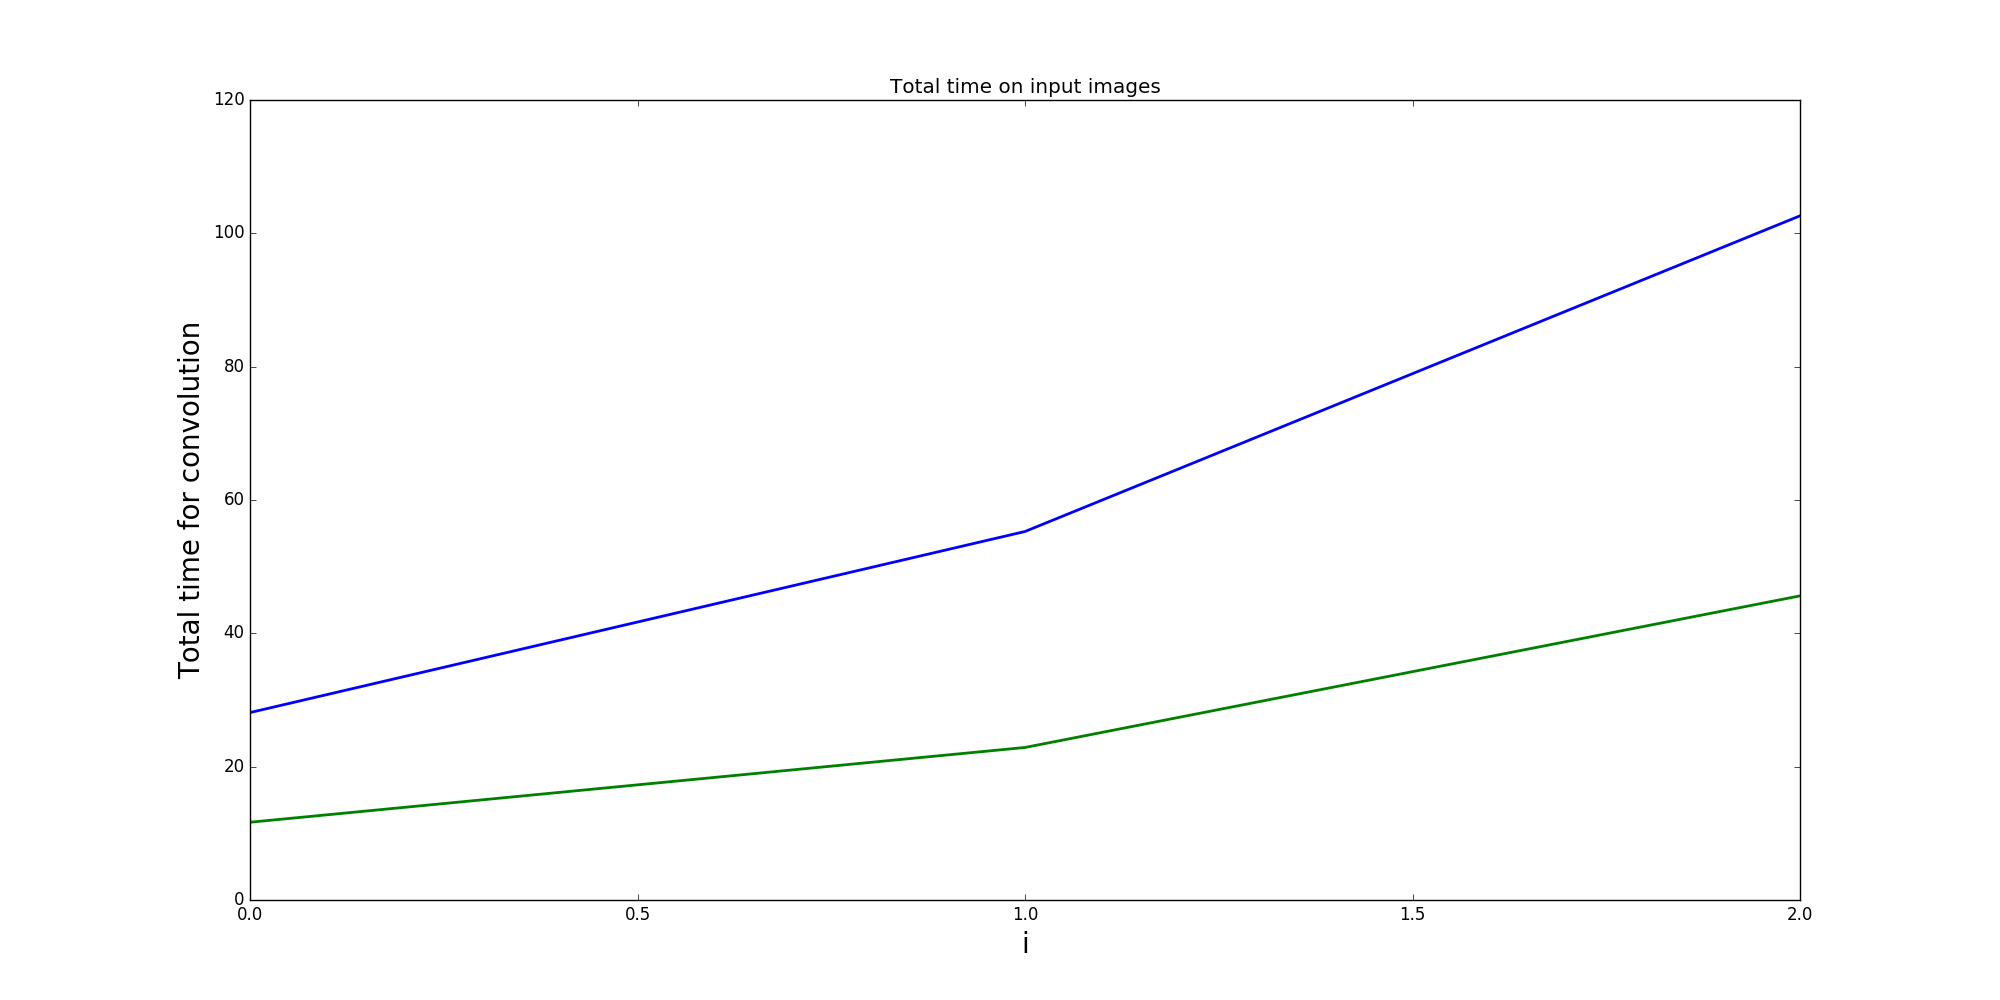
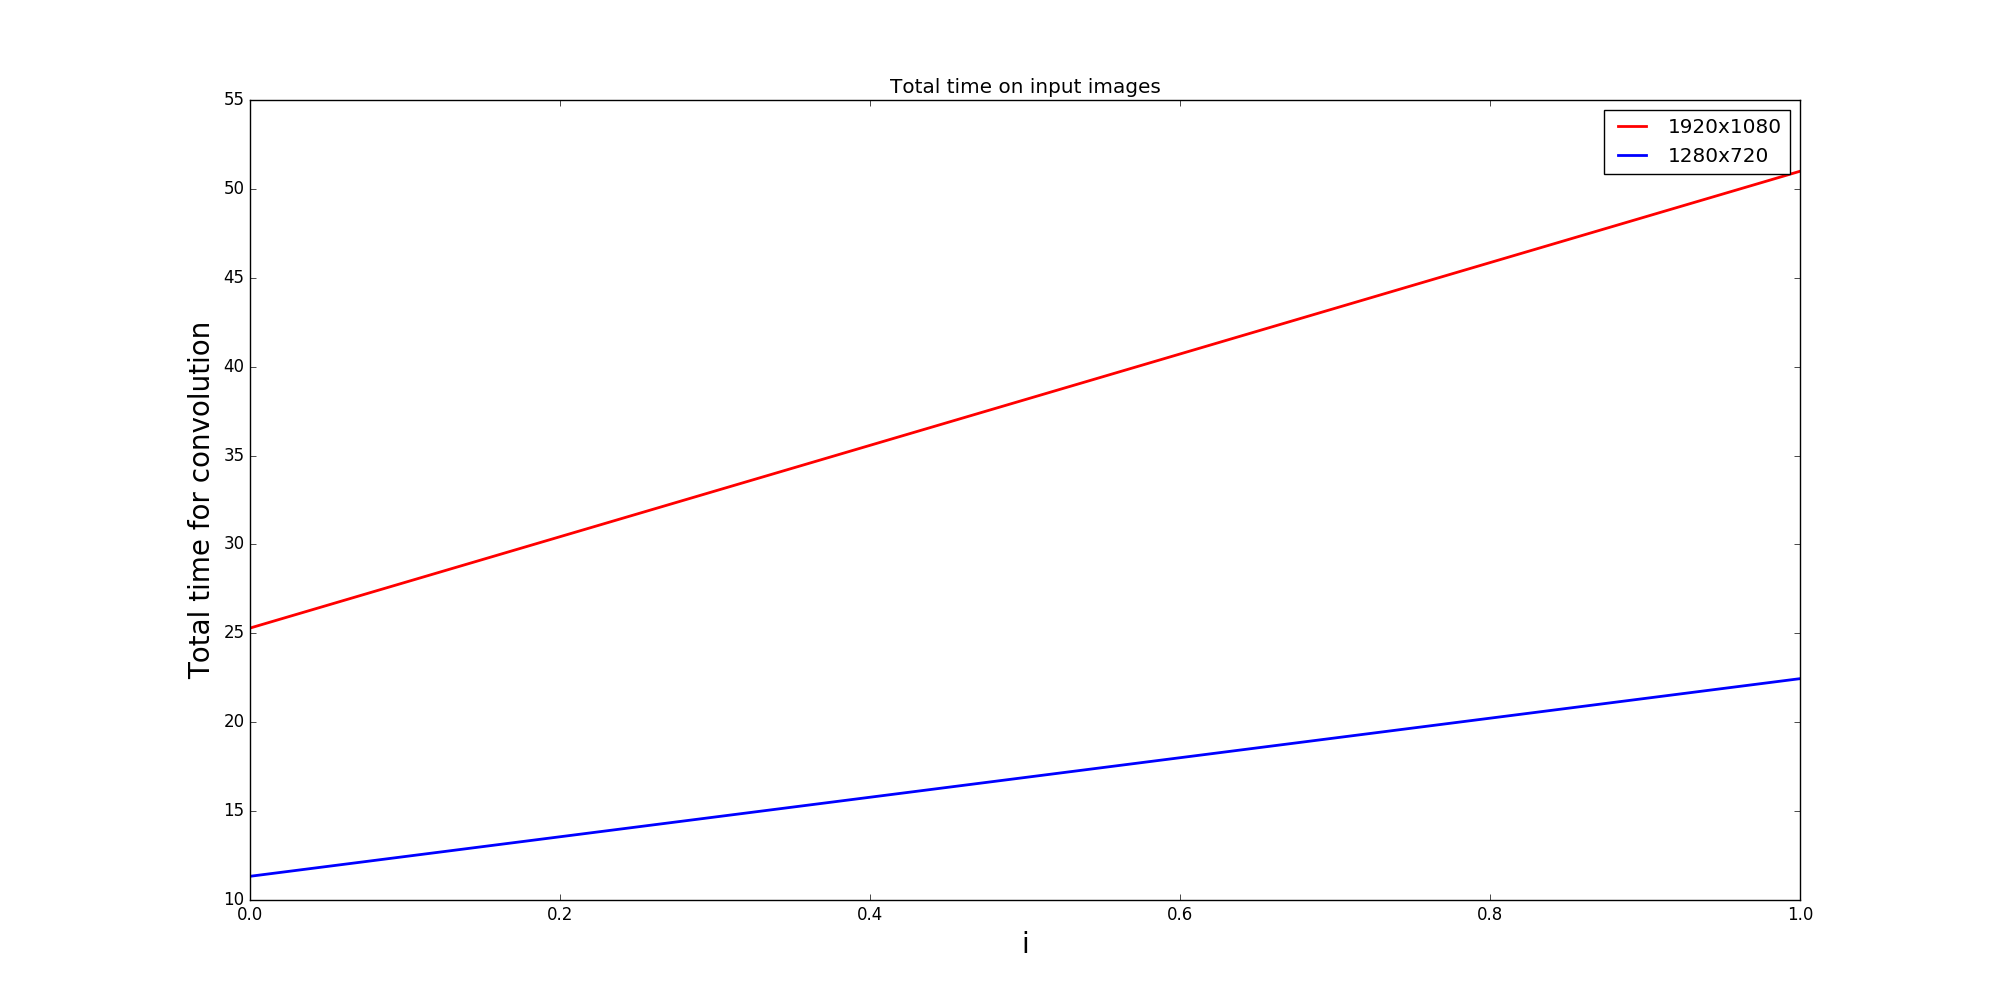
part d

diff --git a/Homework1/main.c b/Homework1/main.c
@@ -3,13 +3,14 @@
 #include <stdlib.h>
 #include <time.h>
 
-int rows[2] = {1080, 720};
-int columns[2] = {1920, 1280};
-int image = 0;
+static int rows[2] = {720, 1080};
+static int columns[2] = {1280, 1920};
+static int image;
 
-int c_conv(in_channel, o_channel, kernel_size, stride, float ***input_image) {
+int c_conv(int in_channel, int o_channel, int kernel_size, int stride, float ***input_image) {
     float ***kernel = (float***)malloc(in_channel*sizeof(float**));
     float ***out_array = (float***)malloc(o_channel*sizeof(float***));
+    
     int Num_of_ops = 0;
 
     int i, j, k;
@@ -18,12 +19,16 @@ int c_conv(in_channel, o_channel, kernel_size, stride, float ***input_image) {
     // Initialize a 3D kernel
     for (i = 0; i < in_channel; i++){
         kernel[i] = (float**)malloc(kernel_size*sizeof(float*));
+    }
+
+
+    for (i = 0; i < in_channel; i++){
         for (j = 0; j < kernel_size; j++){
             kernel[i][j] = (float*)malloc(kernel_size*sizeof(float));
         }
     }
 
-    for(i = 0; i < kernel_size; i++){
+    for(i = 0; i < in_channel; i++){
         for(j = 0; j < kernel_size; j++){
             for(k = 0; k < kernel_size; k++){
                 kernel[i][j][k] = (float)(rand()%100-50.0)/50.0;
@@ -31,44 +36,48 @@ int c_conv(in_channel, o_channel, kernel_size, stride, float ***input_image) {
         }
     }
 
-    int rows = (rows[image] - kernel_size)/stride + 1;
-    int columns = (columns[image] - kernel_size)/stride + 1;
+    int out_rows = (int)((rows[image] - kernel_size)/stride + 1);
+    int out_columns = (int)((columns[image] - kernel_size)/stride + 1);
 
-    // Initialize a 3D image tensor
+    // Initialize a output tenor
     for (i = 0; i < o_channel; i++){
-        out_array[i] = (float**)malloc(rows*sizeof(float*));
-        for (j = 0; j < rows; j++){
-            out_array[i][j] = (float*)malloc(columns*sizeof(float));
+        out_array[i] = (float**)malloc(out_rows*sizeof(float*));
+    }
+
+    
+    for (i = 0; i < o_channel; i++){
+        for (j = 0; j < out_rows; j++){
+            out_array[i][j] = (float*)malloc(out_columns*sizeof(float));
         }
     }
 
     for(i = 0; i < o_channel; i++)
-        for(j = 0; j < rows; j++)
-            for(k = 0; k < columns; k++)
-                out_img_array[i][j][k] = 0;
+        for(j = 0; j < out_rows; j++)
+            for(k = 0; k < out_columns; k++)
+                out_array[i][j][k] = 0;
 
     // Convolutions
-    for(i = 0; i < o_channel; i++)
-        for(j = 0; j < rows; j++)
-            for(k = 0; k < columns; k++){
-                sum = 0;
-                for(c1 = 0; c1 < kernel_size; c1++){
+    for(i = 0; i < o_channel; i++){
+        for(j = 0; j < out_rows; j++){
+            for(k = 0; k < out_columns; k++){
+                int sum = 0;
+                for(c1 = 0; c1 < in_channel; c1++){
                     for(c2 = 0; c2 < kernel_size; c2++){
                         for(c3 = 0; c3 < kernel_size; c3++){
-                            sum += kernel[c1][c2][c3] * input_image[i+c1][j+c2][k+c3];
+                            sum += kernel[c1][c2][c3] * input_image[c1][j+c2][k+c3];
                             Num_of_ops += 2;
                         }
                     }
                 }
-                out_img_array[i][j][k] = sum;
-             }
-
+                out_array[i][j][k] = sum;
+            }
+        }
+    }
 
     return Num_of_ops;
 }
 
 int main(){
-
     int in_channel = 3;
     float total_time[11];
     int stride = 1;
@@ -77,12 +86,15 @@ int main(){
     int Num_of_ops;
 
     clock_t start, end;
-    float ***input_image[2];
+    float ***input_image; 
 
+    image = 0;
     for(int img_count = 0; img_count < 2; img_count++){
-        input_image[img_count] = (float***)malloc(in_channel*sizeof(float**));
+        input_image = (float***)malloc(in_channel*sizeof(float**));
         for (i = 0; i < in_channel; i++)
             input_image[i] = (float**)malloc(rows[img_count]*sizeof(float*));
+            
+        for (i = 0; i < in_channel; i++)
             for (j = 0; j < rows[img_count]; j++)
                 input_image[i][j] = (float*)malloc(columns[img_count]*sizeof(float));
 
@@ -95,11 +107,13 @@ int main(){
 
         for(int i = 0; i < 11; i++) {
             start = clock();
-            Num_of_ops = c_conv(in_channel, pow(2,i), kernel_size, stride, input_image[img_count]);   //Call c_conv function
+            Num_of_ops = c_conv(in_channel, pow(2,i), kernel_size, stride, input_image);
             end = clock();
-            total_time[j] = (double)(end - start) / CLOCKS_PER_SEC;
-            printf("For image %d, i = %d, number_of_operations = %d, computation_time = %lf \n",  img_count, i, Num_of_ops, total_time[i]);
+            total_time[i] = (double)(end - start) / CLOCKS_PER_SEC;
+            printf("For image %d, i = %d, computation_time = %lf \n",  img_count, i, total_time[i]);
         }
         image += 1;
+        free(input_image);
     }
+    return 0;
 }

diff --git a/Homework1/main.py b/Homework1/main.py
@@ -17,7 +17,7 @@ toTensor = transforms.Compose([transforms.ToTensor()])
 input_image = []
 input_image.append(Image.open("image0.jpg"))
 input_image.append(Image.open("image1.jpg"))
-'''
+
 # Part A, Task 1
 conv2d = Conv2D(in_channel=int(3), o_channel=int(1), kernel_size=int(3), stride=int(1),mode='known')
 for i in range(2):
@@ -44,49 +44,51 @@ for i in range(2):
 
 # Part B
 print("Part B")
-index = [i for i in range(3)]
+index = [i for i in range(11)]
 fig = plt.figure(figsize=(20, 10))
 
 for img_count in range(2):
     total_time = []
 
-    for i in range(3):
+    for i in range(11):
         conv2d = Conv2D(in_channel=3, o_channel= 2**i, kernel_size= 3, stride=1, mode='rand')
         stime = time.time()
         [Number_of_ops, output_image] = conv2d.forward(toTensor(input_image[img_count]))
         total_time.append(time.time() - stime)
 
     if(img_count == 0):
-        plt.plot(index, total_time, c="red", linewidth=2.0, label="1920x1080")
+        plt.plot(index, total_time, c="red", linewidth=2.0, label='1280x720')
     else:
-        plt.plot(index, total_time, c="blue", linewidth=2.0, label="1280x720")
+        plt.plot(index, total_time, c="blue", linewidth=2.0, label='1920x1080')
 
 plt.xlabel("i", fontsize=20)
 plt.ylabel("Total time for convolution", fontsize=20)
 plt.title("Total time on input images")
+plt.legend()
 plt.savefig("Part-B")
 plt.close()
-'''
+
 # Part C
 print("Part C")
-index = [i for i in range(3)]
+index = [2*i+3 for i in range(5)]
 fig = plt.figure(figsize=(20, 10))
 
 for img_count in range(2):
     operations = []
 
-    for i in range(3):
+    for i in range(5):
         conv2d = Conv2D(in_channel=3, o_channel= 2, kernel_size= 2 * i + 3, stride=1, mode='rand')
         [Number_of_ops, output_image] = conv2d.forward(toTensor(input_image[img_count]))
         operations.append(Number_of_ops)
 
     if(img_count == 0):
-        plt.plot(index, operations, c="red", linewidth=2.0, label="1920x1080")
+        plt.plot(index, operations, c="red", linewidth=2.0, label='1280x720')
     else:
-        plt.plot(index, operations, c="blue", linewidth=2.0, label="1280x720")
+        plt.plot(index, operations, c="blue", linewidth=2.0, label='1920x1080')
 
 plt.xlabel("i", fontsize=20)
 plt.ylabel("Total operations", fontsize=20)
 plt.title("Total operations on input images")
+plt.legend()
 plt.savefig("Part-C")
 plt.close()
